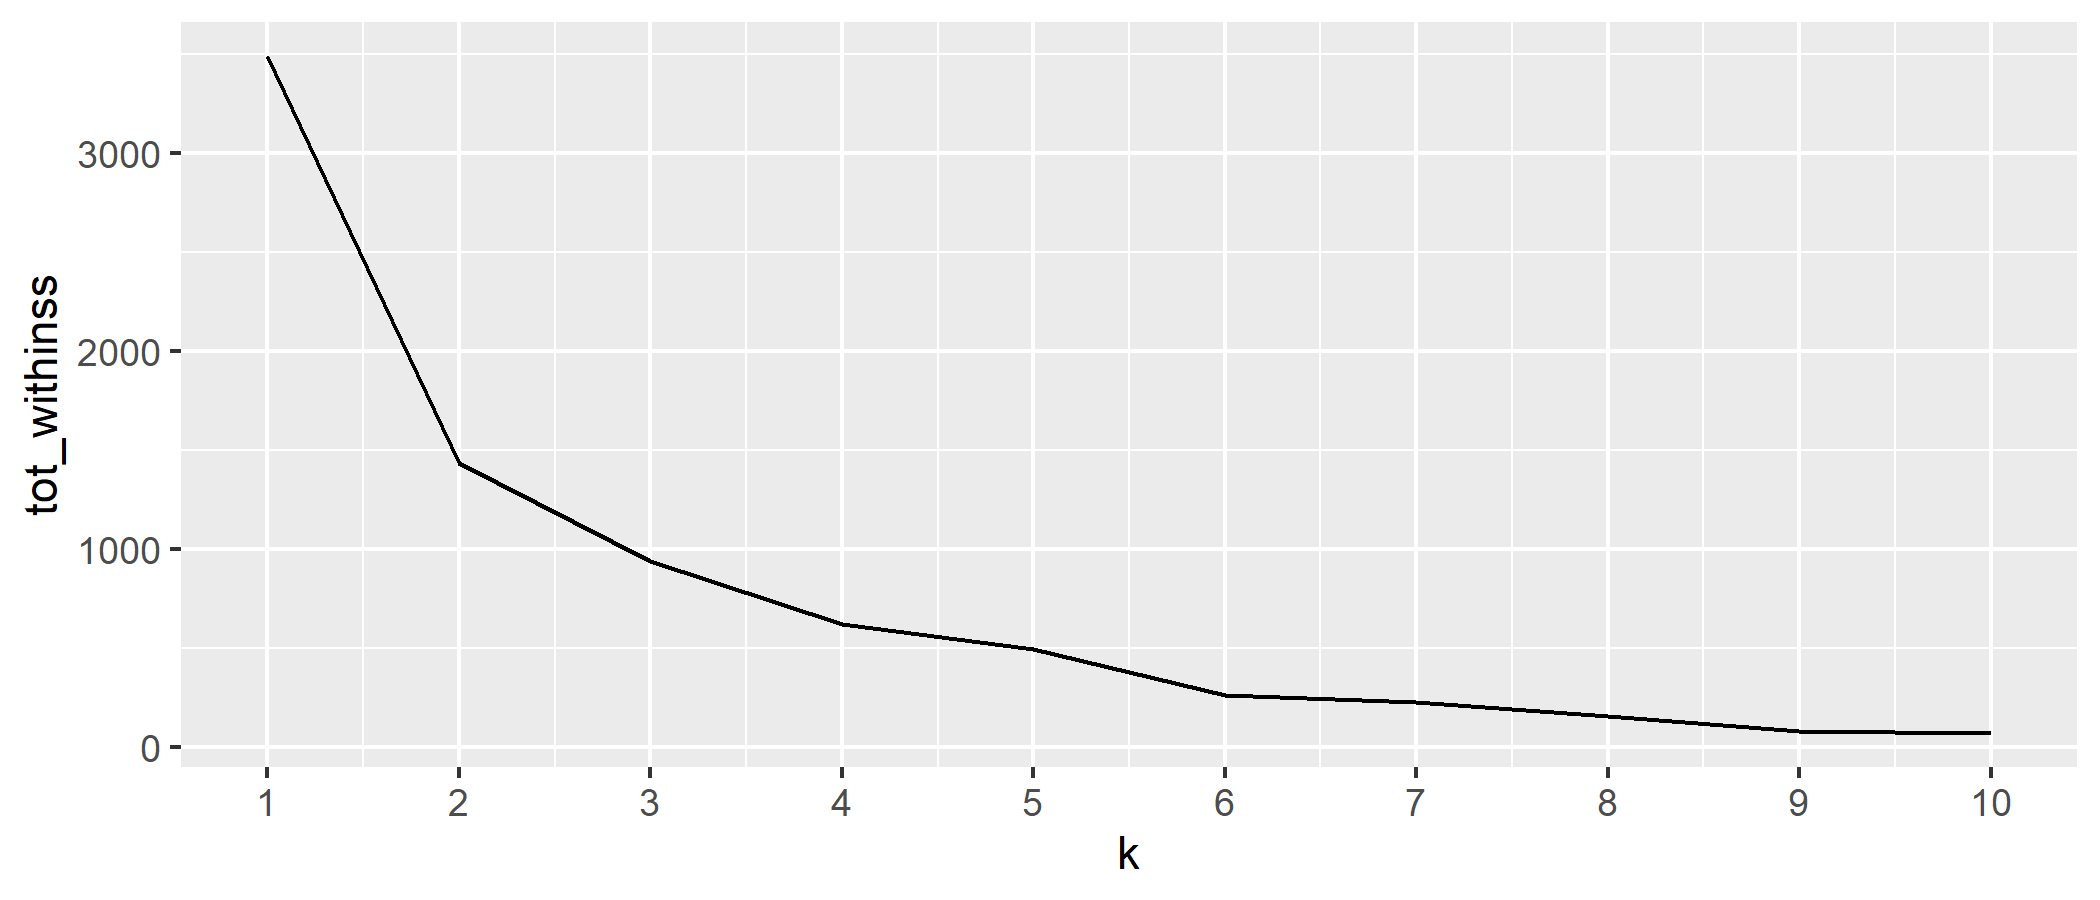
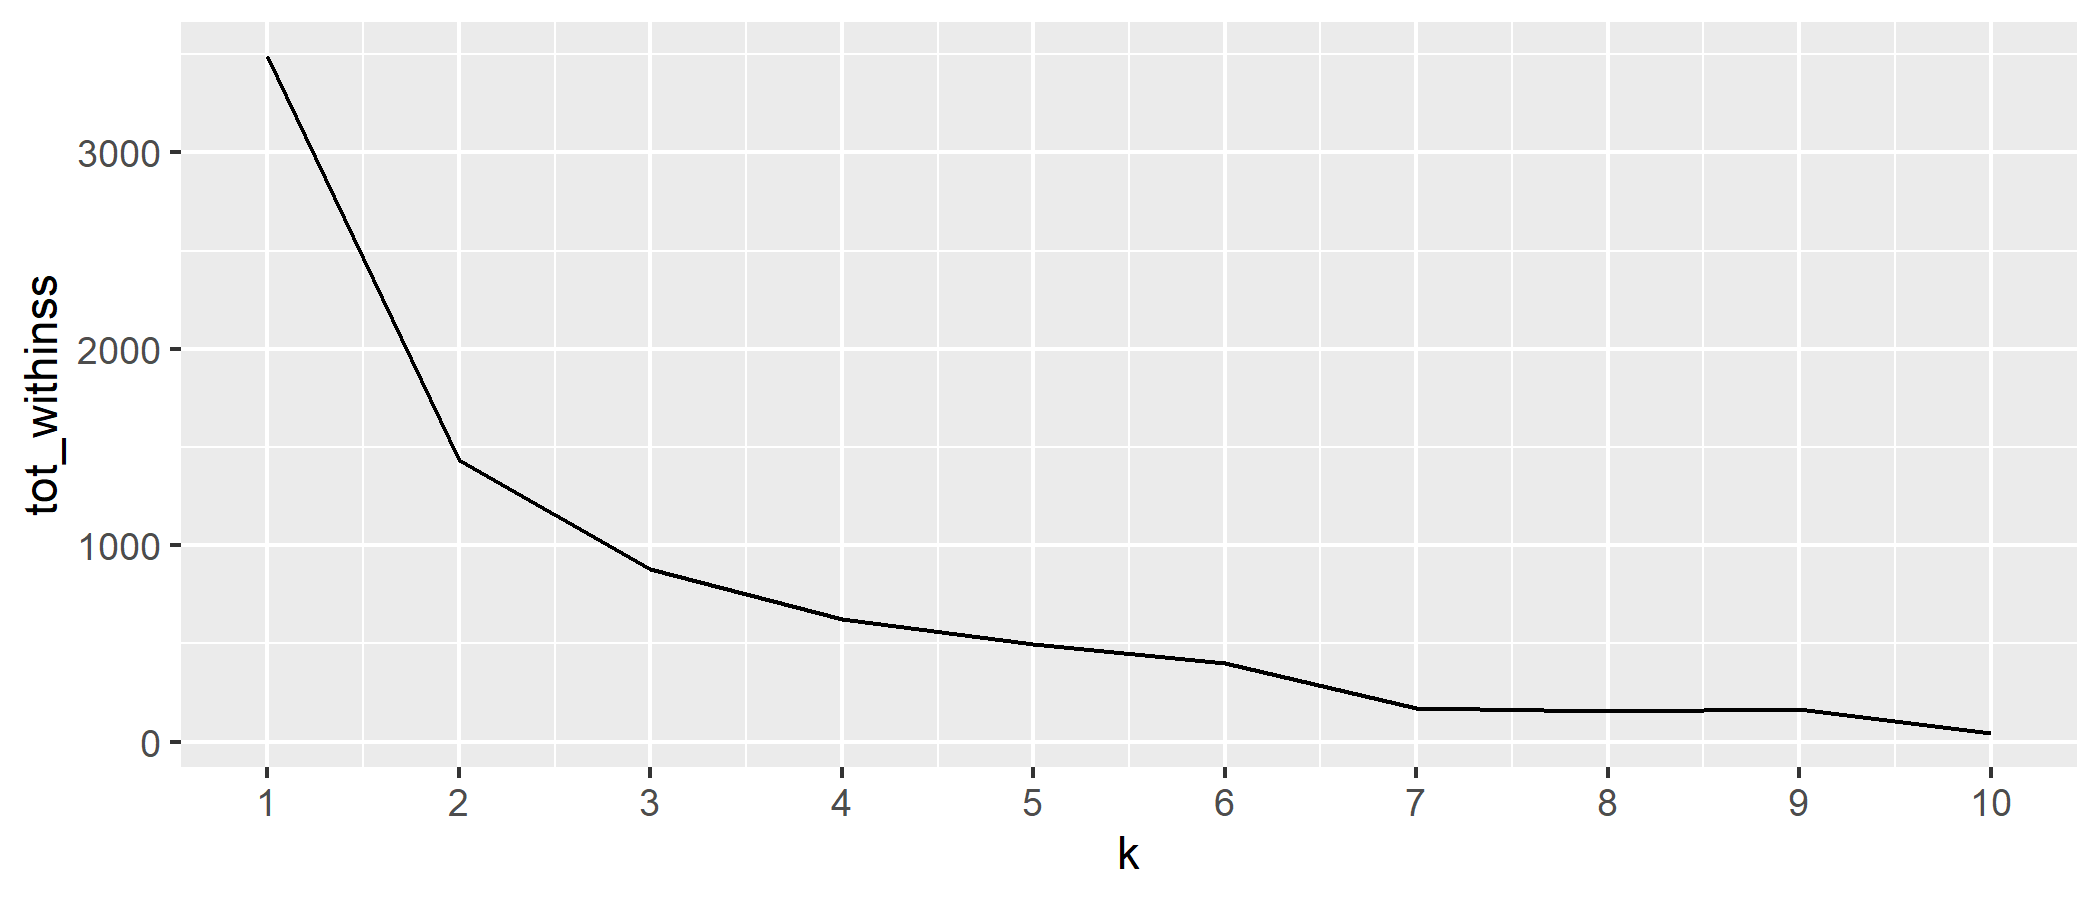
es soll jetzt fertig sein

diff --git a/Predavanja/06_KLASTER.html b/Predavanja/06_KLASTER.html
@@ -80,12 +80,20 @@ name: kars
 
 # Resursi
 
+&lt;br&gt;
+&lt;br&gt;
+&lt;br&gt;
 - *klaster analiza* je općenito (i u R) dobro dokumentirana
+&lt;br&gt;
 - sveobuhvatni vodič [Practical Guide To Cluster Analysis in R](https://xsliulab.github.io/Workshop/week10/r-cluster-book.pdf) 
+&lt;br&gt;
 - dostupno je i mnoštvo tutorial-a na: [link 1](https://uc-r.github.io/kmeans_clustering) , [link 2](https://statsandr.com/blog/clustering-analysis-k-means-and-hierarchical-clustering-by-hand-and-in-r/), [link 3](https://towardsdatascience.com/how-to-use-and-visualize-k-means-clustering-in-r-19264374a53c), [link 4](https://www.datanovia.com/en/blog/cluster-analysis-in-r-practical-guide/)
+&lt;br&gt;
 - postoji i [CRAN Task](https://cran.r-project.org/web/views/Cluster.html) na temu klasteringa
+&lt;br&gt;
 - interaktivni tutorial na [DataCamp-u](https://www.datacamp.com/courses/cluster-analysis-in-r)
-
+&lt;br&gt;
+- [ogledni](https://zir.nsk.hr/islandora/object/pmf%3A9063/datastream/PDF/view) primjer klaster analize na hrvatskim podatcima
 
 ---
 
@@ -975,7 +983,7 @@ print(model$cluster) # Prikaži klastere
 ```
 
 ```
-##  [1] 2 2 1 1 2 2 2 1 1 1 2 1
+##  [1] 1 1 2 2 1 1 1 2 2 2 1 2
 ```
 
 
@@ -986,18 +994,18 @@ print(lineupKlasteri) # Prikaži klastere i podatke
 
 ```
 ##      X   Y cluster
-## 1   -1   1       2
-## 2   -2  -3       2
-## 3    8   6       1
-## 4    7  -8       1
-## 5  -12   8       2
-## 6  -15   0       2
-## 7  -13 -10       2
-## 8   15  16       1
-## 9   21   2       1
-## 10  12 -15       1
-## 11 -25   1       2
-## 12  26   0       1
+## 1   -1   1       1
+## 2   -2  -3       1
+## 3    8   6       2
+## 4    7  -8       2
+## 5  -12   8       1
+## 6  -15   0       1
+## 7  -13 -10       1
+## 8   15  16       2
+## 9   21   2       2
+## 10  12 -15       2
+## 11 -25   1       1
+## 12  26   0       2
 ```
 
 ---
@@ -1089,14 +1097,14 @@ print(elbow_df)
 ##     k tot_withinss
 ## 1   1    3489.9167
 ## 2   2    1434.5000
-## 3   3     940.8333
+## 3   3     881.2500
 ## 4   4     622.5000
 ## 5   5     496.4167
-## 6   6     265.1667
-## 7   7     228.1667
+## 6   6     402.2500
+## 7   7     171.0000
 ## 8   8     156.5000
-## 9   9      82.0000
-## 10 10      73.5000
+## 9   9     167.6667
+## 10 10      45.0000
 ```
 
 ---
